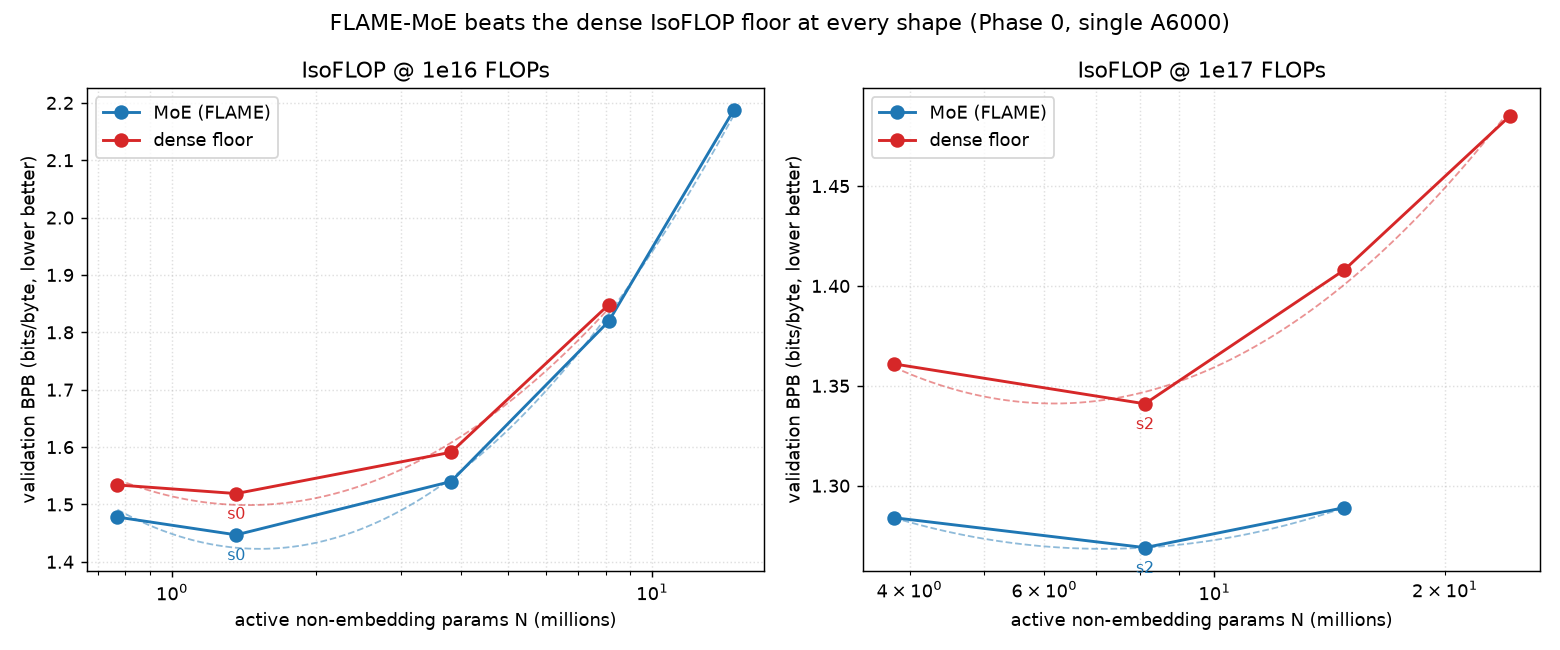
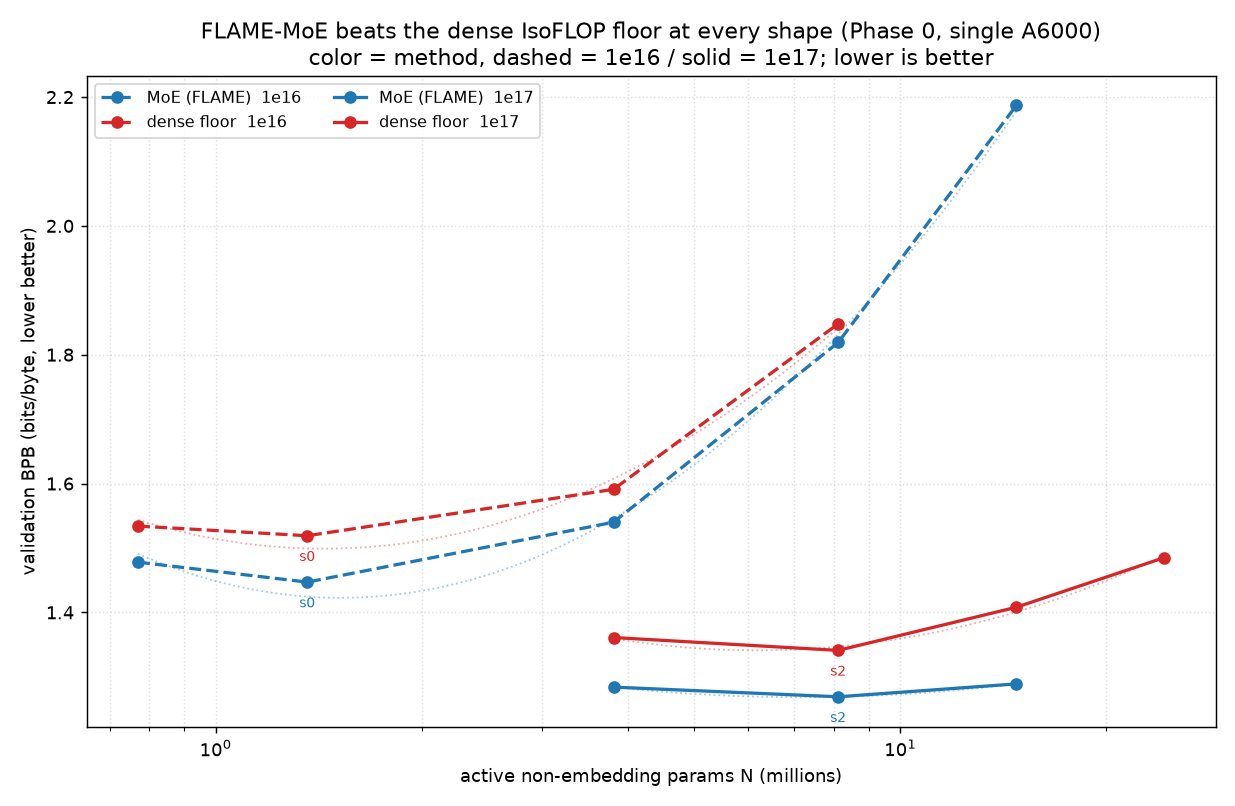
Plots: single combined-axes only; drop all side-by-side 2-panel code
Per preference, every phase-0 plot now renders ONE combined single-axes figure
(color = method, linestyle = budget: dashed 1e16 / solid 1e17), never side-by-side
panels. Removed the 2-panel blocks from plot_temporal_final/plot_temporal_graphs,
converted plot_temporal_minlogit/plot_dense_vs_moe/plot_g3 from 2-panel to combined,
and added plot_g3_curves.py (G1 vs G3, MoE + temporal, thin-open G1 / bold-square G3).
Deleted the orphaned *_2panel.png figures.

diff --git a/scripts/phase0/plot_g3.py b/scripts/phase0/plot_g3.py
@@ -3,7 +3,7 @@
 
 Reads measured BPB for the g3_* runs by calling parse_run.py on each run dir (so BPB_DIVISOR is
 honored). Overlays the already-measured G=1 reference numbers (from results/phase0/*.md). Plots one
-panel per budget (1e16, 1e17): BPB vs active non-embedding params N. Lower BPB is better.
+combined single axes: BPB vs active non-embedding params N (color=method, linestyle=budget). Lower is better.
 
 Usage: BPB_DIVISOR=2.7600 .venv/bin/python scripts/phase0/plot_g3.py
 """
@@ -72,35 +72,36 @@ def collect():
 
 def main():
     g3 = collect()
-    fig, axes = plt.subplots(1, 2, figsize=(13, 5.2))
-    for ax, budget in zip(axes, ["1e16", "1e17"]):
-        # baseline reference (G1) — dashed
-        for mt, color, label in [("dense", "tab:gray", "dense floor (G1)"),
-                                 ("moe", "tab:blue", "MoE (G1)"),
-                                 ("temporal", "tab:green", "temporal (G1)")]:
+    # Combined single axes: color = method, linestyle = budget (dashed 1e16 / solid 1e17),
+    # granularity = weight+marker (G1 thin+open circle, G3 bold+filled square).
+    COL = {"dense": "tab:gray", "moe": "tab:blue", "temporal": "tab:green"}
+    LST = {"1e16": "--", "1e17": "-"}
+    fig, ax = plt.subplots(figsize=(10.5, 6.6))
+    for budget in ["1e16", "1e17"]:
+        # G1 baseline (thin, open circle)
+        for mt in ["dense", "moe", "temporal"]:
             d = BASE[budget][mt]
-            xs = [N_G1[s] for s in d]; ys = [d[s] for s in d]
-            pts = sorted(zip(xs, ys))
-            ax.plot([p[0] for p in pts], [p[1] for p in pts], "--", color=color, alpha=0.45,
-                    marker="o", ms=3, label=label)
-        # G3 measured — solid bold
-        for mt, color, label in [("moe", "tab:blue", "MoE (G3, 18/192)"),
-                                  ("temporal", "tab:green", "temporal (G3, K=18)")]:
+            pts = sorted((N_G1[s], d[s]) for s in d)
+            ax.plot([p[0] for p in pts], [p[1] for p in pts], LST[budget], color=COL[mt],
+                    marker="o", mfc="none", ms=6, lw=1.4, alpha=0.55,
+                    label=f"{mt} G1  {budget}")
+        # G3 measured (bold, filled square)
+        for mt in ["moe", "temporal"]:
             d = g3.get((mt, budget), {})
             if not d:
                 continue
             pts = sorted((N_G3[s], d[s], s) for s in d)
-            ax.plot([p[0] for p in pts], [p[1] for p in pts], "-", color=color, lw=2.2,
-                    marker="s", ms=6, label=label)
+            ax.plot([p[0] for p in pts], [p[1] for p in pts], LST[budget], color=COL[mt],
+                    marker="s", ms=6.5, lw=2.4, label=f"{mt} G3  {budget}")
             for x, y, s in pts:
-                ax.annotate(s, (x, y), textcoords="offset points", xytext=(4, 5), fontsize=8)
-        ax.set_xscale("log")
-        ax.set_xlabel("active non-embedding params N (M)")
-        ax.set_ylabel("validation BPB (lower better)")
-        ax.set_title(f"IsoFLOP @ {budget}")
-        ax.grid(True, which="both", alpha=0.25)
-        ax.legend(fontsize=7.5, loc="upper center")
-    fig.suptitle("G=3 fine-grained (18 active routed of 192) vs G=1 baseline — FLAME-MoE Phase-0", fontsize=12)
+                ax.annotate(s, (x, y), textcoords="offset points", xytext=(4, 5), fontsize=7.5)
+    ax.set_xscale("log")
+    ax.set_xlabel("active non-embedding params N (M)")
+    ax.set_ylabel("validation BPB (lower better)")
+    ax.set_title("G=3 fine-grained (18 routed of 192) vs G=1 baseline — FLAME-MoE Phase-0\n"
+                 "color = method, dashed = 1e16 / solid = 1e17, bold-square = G3 / thin-open = G1")
+    ax.grid(True, which="both", alpha=0.25)
+    ax.legend(fontsize=8, ncol=2, loc="upper center")
     fig.tight_layout()
     out = f"{ROOT}/results/phase0/g3_isoflop.png"
     fig.savefig(out, dpi=130)

diff --git a/scripts/phase0/plot_dense_vs_moe.py b/scripts/phase0/plot_dense_vs_moe.py
@@ -1,9 +1,9 @@
 #!/usr/bin/env python3
 """Plot the dense IsoFLOP floor against the FLAME-MoE frontier at 1e16 and 1e17 FLOPs.
 
-Two panels (one per budget); each shows the dense (vanilla SwiGLU) parabola and the MoE
-parabola over active non-embedding params N. Metric is bits-per-byte (lower better). All points
-are measured (results/phase0/log.md). Output: results/phase0/dense_vs_moe.png
+Combined single axes: dense (vanilla SwiGLU) and MoE parabolas over active non-embedding params N,
+both budgets overlaid (color = method, linestyle = budget: dashed 1e16 / solid 1e17). Metric is
+bits-per-byte (lower better). All points measured (results/phase0/log.md). Output: dense_vs_moe.png
 """
 import numpy as np
 import matplotlib
@@ -29,28 +29,29 @@ def pts(d):
     order = np.argsort(xs)
     return np.array(xs)[order], np.array(ys)[order], [list(d.keys())[i] for i in order]
 
-fig, axes = plt.subplots(1, 2, figsize=(12, 5))
-for ax, budget in zip(axes, ["1e16", "1e17"]):
+LSTYLE = {"1e16": "--", "1e17": "-"}
+fig, ax = plt.subplots(figsize=(9.5, 6.2))
+for budget in ["1e16", "1e17"]:
     for label, data, color in [("MoE (FLAME)", MOE[budget], "C0"),
                                ("dense floor", DENSE[budget], "C3")]:
         x, y, names = pts(data)
-        ax.plot(x, y, "o-", color=color, label=label, lw=1.6, ms=7)
+        ax.plot(x, y, LSTYLE[budget], color=color, marker="o", lw=1.8, ms=6,
+                label=f"{label}  {budget}")
         # parabola fit in log10(N) for a smooth guide + located minimum
         lx = np.log10(x)
         c = np.polyfit(lx, y, 2)
         xx = np.linspace(lx.min(), lx.max(), 100)
-        ax.plot(10**xx, np.polyval(c, xx), "--", color=color, lw=1, alpha=0.5)
+        ax.plot(10**xx, np.polyval(c, xx), ":", color=color, lw=1, alpha=0.4)
         imin = int(np.argmin(y))
         ax.annotate(names[imin], (x[imin], y[imin]), textcoords="offset points",
-                    xytext=(0, -14), ha="center", fontsize=9, color=color)
-    ax.set_xscale("log")
-    ax.set_xlabel("active non-embedding params N (millions)")
-    ax.set_ylabel("validation BPB (bits/byte, lower better)")
-    ax.set_title(f"IsoFLOP @ {budget} FLOPs")
-    ax.grid(True, which="both", ls=":", alpha=0.4)
-    ax.legend()
-fig.suptitle("FLAME-MoE beats the dense IsoFLOP floor at every shape (Phase 0, single A6000)",
-             fontsize=12)
+                    xytext=(0, -14), ha="center", fontsize=8, color=color)
+ax.set_xscale("log")
+ax.set_xlabel("active non-embedding params N (millions)")
+ax.set_ylabel("validation BPB (bits/byte, lower better)")
+ax.set_title("FLAME-MoE beats the dense IsoFLOP floor at every shape (Phase 0, single A6000)\n"
+             "color = method, dashed = 1e16 / solid = 1e17; lower is better")
+ax.grid(True, which="both", ls=":", alpha=0.4)
+ax.legend(fontsize=9, ncol=2)
 fig.tight_layout()
 fig.savefig("results/phase0/dense_vs_moe.png", dpi=130)
 print("wrote results/phase0/dense_vs_moe.png")

diff --git a/scripts/phase0/plot_g3_curves.py b/scripts/phase0/plot_g3_curves.py
@@ -1,0 +1,56 @@
+#!/usr/bin/env python3
+"""Combined single-axes IsoFLOP figure (matches plot_temporal_final.py style):
+  color   = method   (dense gray, MoE blue, temporal green)
+  linestyle = budget (dashed 1e16, solid 1e17)
+  weight/marker = granularity (G1 6/64 thin+open circle+faded, G3 18/192 bold+filled square)
+All BPB measured (results/phase0/G3_RESULTS.md + baseline docs); lower is better.
+G3 temporal s1@1e17 still running on the A6000 -> omitted.
+"""
+import numpy as np
+import matplotlib
+matplotlib.use("Agg")
+import matplotlib.pyplot as plt
+
+N_G1 = {"sm1": 0.770, "s0": 1.361, "s1": 3.812, "s2": 8.115, "s3": 14.774}
+N_G3 = {"sm1": 0.81, "s0": 1.42, "s1": 3.91, "s2": 8.23, "s3": 15.09}
+
+DENSE_G1 = {"1e16": {"sm1": 1.534, "s0": 1.519, "s1": 1.591},
+            "1e17": {"s1": 1.361, "s2": 1.341, "s3": 1.408}}
+MOE_G1   = {"1e16": {"sm1": 1.478, "s0": 1.447, "s1": 1.540},
+            "1e17": {"s1": 1.284, "s2": 1.269, "s3": 1.289}}
+MOE_G3   = {"1e16": {"sm1": 1.4786, "s0": 1.4585, "s1": 1.5352},
+            "1e17": {"s1": 1.2846, "s2": 1.2708, "s3": 1.2815}}
+TMP_G1   = {"1e16": {"sm1": 1.4891, "s0": 1.4599, "s1": 1.5488},
+            "1e17": {"s1": 1.3039, "s2": 1.2821, "s3": 1.3073}}
+TMP_G3   = {"1e16": {"sm1": 1.4976, "s0": 1.4753, "s1": 1.5861},
+            "1e17": {"s2": 1.2873, "s3": 1.3129}}   # s1@1e17 running -> omitted
+
+# name, data, N-table, color, marker, facecolor, lw, alpha, label
+SERIES = [
+    ("dense_g1", DENSE_G1, N_G1, "0.55",     "x", "0.55",     1.3, 0.9, "dense floor (G1)"),
+    ("moe_g1",   MOE_G1,   N_G1, "C0",       "o", "none",     1.4, 0.55, "MoE  G1 (6/64)"),
+    ("tmp_g1",   TMP_G1,   N_G1, "C2",       "o", "none",     1.4, 0.55, "temporal  G1 (6/64)"),
+    ("moe_g3",   MOE_G3,   N_G3, "C0",       "s", "C0",       2.6, 1.0, "MoE  G3 (18/192)"),
+    ("tmp_g3",   TMP_G3,   N_G3, "C2",       "s", "C2",       2.6, 1.0, "temporal  G3 (18/192)"),
+]
+LSTYLE = {"1e16": "--", "1e17": "-"}
+
+fig, ax = plt.subplots(figsize=(10.5, 6.6))
+for key, data, Ntab, color, mk, fc, lw, alpha, label in SERIES:
+    for b in ["1e16", "1e17"]:
+        d = data[b]
+        xs = np.array([Ntab[k] for k in d]); ys = np.array([d[k] for k in d])
+        o = np.argsort(xs)
+        ax.plot(xs[o], ys[o], LSTYLE[b], color=color, marker=mk, mfc=fc, ms=6.5,
+                lw=lw, alpha=alpha, label=(label if b == "1e17" else None))
+ax.set_xscale("log")
+ax.set_xlabel("active non-embedding params  N  (millions)")
+ax.set_ylabel("validation BPB  (bits/byte, lower better)")
+ax.set_title("Fine-graining the experts (G1 6/64  →  G3 18/192): MoE & temporal vs dense floor\n"
+             "color = method,  dashed = 1e16 / solid = 1e17,  bold-square = G3 / thin-open = G1")
+ax.grid(True, which="both", ls=":", alpha=0.4)
+ax.legend(fontsize=9, ncol=2, loc="upper left")
+fig.tight_layout()
+out = "/workspace/FLAME-MoE/results/phase0/g3_vs_g1_combined.png"
+fig.savefig(out, dpi=140)
+print("wrote", out)

diff --git a/scripts/phase0/plot_temporal_minlogit.py b/scripts/phase0/plot_temporal_minlogit.py
@@ -27,29 +27,26 @@ def pts(d):
     xs = np.array([N[k] for k in d]); ys = np.array([d[k] for k in d])
     o = np.argsort(xs); return xs[o], ys[o]
 
-fig, axes = plt.subplots(1, 2, figsize=(12, 5))
-for ax, b in zip(axes, ["1e16", "1e17"]):
+LSTYLE = {"1e16": "--", "1e17": "-"}
+fig, ax = plt.subplots(figsize=(9.5, 6.2))
+for b in ["1e16", "1e17"]:
     for label, data, color in [("dense floor", DENSE[b], "C3"), ("MoE (1 shared)", MOE[b], "C0")]:
         x, y = pts(data)
-        ax.plot(x, y, "o-", color=color, label=label, lw=1.6, ms=7)
+        ax.plot(x, y, LSTYLE[b], color=color, marker="o", lw=1.8, ms=6, label=f"{label}  {b}")
         lx = np.log10(x); c = np.polyfit(lx, y, 2); xx = np.linspace(lx.min(), lx.max(), 100)
-        ax.plot(10**xx, np.polyval(c, xx), "--", color=color, lw=1, alpha=0.4)
+        ax.plot(10**xx, np.polyval(c, xx), ":", color=color, lw=1, alpha=0.35)
     shape, bpb = TEMPORAL[b]
-    ax.plot(N[shape], bpb, "*", color="C2", ms=20, zorder=5,
-            label="temporal (min_logit, 1 shared)")
+    ax.plot(N[shape], bpb, "*", color="C2", ms=20, zorder=5, markeredgecolor="k",
+            markeredgewidth=0.5, label=f"temporal (min_logit, 1 shared)  {b}")
     ax.annotate(f"{bpb:.4f}", (N[shape], bpb), textcoords="offset points",
-                xytext=(10, -4), fontsize=10, color="C2", fontweight="bold")
-    # band annotation at the optimal shape
-    dmin = min(DENSE[b].values()); mmin = min(MOE[b].values())
-    ax.annotate(f"band: {mmin:.3f}–{dmin:.3f}", (0.02, 0.02), xycoords="axes fraction",
-                fontsize=8, color="gray")
-    ax.set_xscale("log")
-    ax.set_xlabel("active non-embedding params N (millions)")
-    ax.set_ylabel("validation BPB (bits/byte, lower better)")
-    ax.set_title(f"IsoFLOP @ {b} FLOPs")
-    ax.grid(True, which="both", ls=":", alpha=0.4)
-    ax.legend(fontsize=9)
-fig.suptitle("Temporal MoE (6/64 experts resident) lands inside the dense↔MoE band", fontsize=12)
+                xytext=(10, -4), fontsize=9, color="C2", fontweight="bold")
+ax.set_xscale("log")
+ax.set_xlabel("active non-embedding params N (millions)")
+ax.set_ylabel("validation BPB (bits/byte, lower better)")
+ax.set_title("Temporal MoE (6/64 experts resident) lands inside the dense↔MoE band — both budgets\n"
+             "color = method, dashed = 1e16 / solid = 1e17; lower is better")
+ax.grid(True, which="both", ls=":", alpha=0.4)
+ax.legend(fontsize=9, ncol=2)
 fig.tight_layout()
 fig.savefig("results/phase0/temporal_minlogit_vs_baselines.png", dpi=130)
 print("wrote results/phase0/temporal_minlogit_vs_baselines.png")

diff --git a/scripts/phase0/plot_temporal_graphs.py b/scripts/phase0/plot_temporal_graphs.py
@@ -1,11 +1,7 @@
 #!/usr/bin/env python3
-"""Two views of temporal (rolling-residency, min_logit, 1 shared) vs the dense floor and full MoE
-(1 shared) IsoFLOP curves. All BPB measured (results/phase0/log.md); lower is better.
-
-  1) temporal_minlogit_2panel.png   — 1e16 and 1e17 in separate panels, each trimmed to the shapes
-     BOTH curves share (drop the unmatched extreme: MoE s3@1e16, dense s4@1e17) so the y-scale isn't
-     stretched by a point only one curve has.
-  2) temporal_minlogit_combined.png — both budgets on a SINGLE axes (color = method, linestyle = budget).
+"""Temporal (rolling-residency, min_logit, 1 shared) vs the dense floor and full MoE (1 shared)
+IsoFLOP curves, both budgets on a SINGLE combined axes (color = method, linestyle = budget).
+All BPB measured (results/phase0/log.md); lower is better. Output: temporal_minlogit_combined.png.
 """
 import numpy as np
 import matplotlib
@@ -29,25 +25,7 @@ def pts(d):
     xs = np.array([N[k] for k in d]); ys = np.array([d[k] for k in d])
     o = np.argsort(xs); return xs[o], ys[o]
 
-# ---------- 1) trimmed 2-panel ----------
-fig, axes = plt.subplots(1, 2, figsize=(12, 5))
-for ax, b in zip(axes, ["1e16", "1e17"]):
-    for label, data, color in [("dense floor", DENSE[b], "C3"), ("MoE (1 shared)", MOE[b], "C0")]:
-        x, y = pts(data); ax.plot(x, y, "o-", color=color, label=label, lw=1.7, ms=7)
-    shape, bpb = TEMPORAL[b]
-    ax.plot(N[shape], bpb, "*", color="C2", ms=20, zorder=5, label="temporal (min_logit, 1 shared)")
-    ax.annotate(f"{bpb:.4f}", (N[shape], bpb), textcoords="offset points", xytext=(10, -4),
-                fontsize=10, color="C2", fontweight="bold")
-    ax.set_xscale("log")
-    ax.set_xlabel("active non-embedding params N (millions)")
-    ax.set_ylabel("validation BPB (bits/byte, lower better)")
-    ax.set_title(f"IsoFLOP @ {b} FLOPs")
-    ax.grid(True, which="both", ls=":", alpha=0.4); ax.legend(fontsize=9)
-fig.suptitle("Temporal MoE (6/64 experts resident) sits inside the dense↔MoE band", fontsize=12)
-fig.tight_layout(); fig.savefig("results/phase0/temporal_minlogit_2panel.png", dpi=130)
-print("wrote results/phase0/temporal_minlogit_2panel.png")
-
-# ---------- 2) combined single axes ----------
+# ---------- combined single axes ----------
 fig, ax = plt.subplots(figsize=(9, 6))
 STYLE = {"1e16": "--", "1e17": "-"}
 for b in ["1e16", "1e17"]:

diff --git a/scripts/phase0/plot_temporal_final.py b/scripts/phase0/plot_temporal_final.py
@@ -2,9 +2,9 @@
 """Final temporal-MoE figure: full IsoFLOP curves for dense floor, full MoE (1 shared), and temporal
 (rolling residency, min_logit eviction, 1 shared = 6/64 experts resident) at both FLOP budgets.
 
-Combined single-axes (preferred): color = method, linestyle = budget (dashed 1e16, solid 1e17).
-Also a 2-panel version. All BPB measured (results/phase0/log.md); lower is better. Each budget trimmed
-to the shapes all three curves share so an unmatched extreme doesn't stretch the y-scale.
+Combined single-axes only: color = method, linestyle = budget (dashed 1e16, solid 1e17). All BPB
+measured (results/phase0/log.md); lower is better. Each budget trimmed to the shapes all three curves
+share so an unmatched extreme doesn't stretch the y-scale.
 """
 import numpy as np
 import matplotlib
@@ -32,7 +32,7 @@ def pts(d):
     xs = np.array([N[k] for k in d]); ys = np.array([d[k] for k in d])
     o = np.argsort(xs); return xs[o], ys[o]
 
-# ---------- combined single axes (preferred) ----------
+# ---------- combined single axes ----------
 fig, ax = plt.subplots(figsize=(9.5, 6.2))
 STYLE = {"1e16": "--", "1e17": "-"}
 for name, data, color in SERIES:
@@ -55,16 +55,3 @@ ax.legend(fontsize=8.5, ncol=3, loc="upper left")
 fig.tight_layout()
 fig.savefig("results/phase0/temporal_minlogit_final_combined.png", dpi=130)
 print("wrote results/phase0/temporal_minlogit_final_combined.png")
-
-# ---------- 2-panel (reference) ----------
-fig, axes = plt.subplots(1, 2, figsize=(12, 5))
-for ax, b in zip(axes, ["1e16", "1e17"]):
-    for name, data, color in SERIES:
-        x, y = pts(data[b]); ax.plot(x, y, "o-", color=color, lw=1.7, ms=7, label=name)
-    ax.set_xscale("log"); ax.set_xlabel("active non-embedding params N (millions)")
-    ax.set_ylabel("validation BPB (bits/byte, lower better)")
-    ax.set_title(f"IsoFLOP @ {b} FLOPs"); ax.grid(True, which="both", ls=":", alpha=0.4)
-    ax.legend(fontsize=9)
-fig.suptitle("Dense vs MoE (1 shared) vs temporal (min_logit, 1 shared)", fontsize=12)
-fig.tight_layout(); fig.savefig("results/phase0/temporal_minlogit_final_2panel.png", dpi=130)
-print("wrote results/phase0/temporal_minlogit_final_2panel.png")
